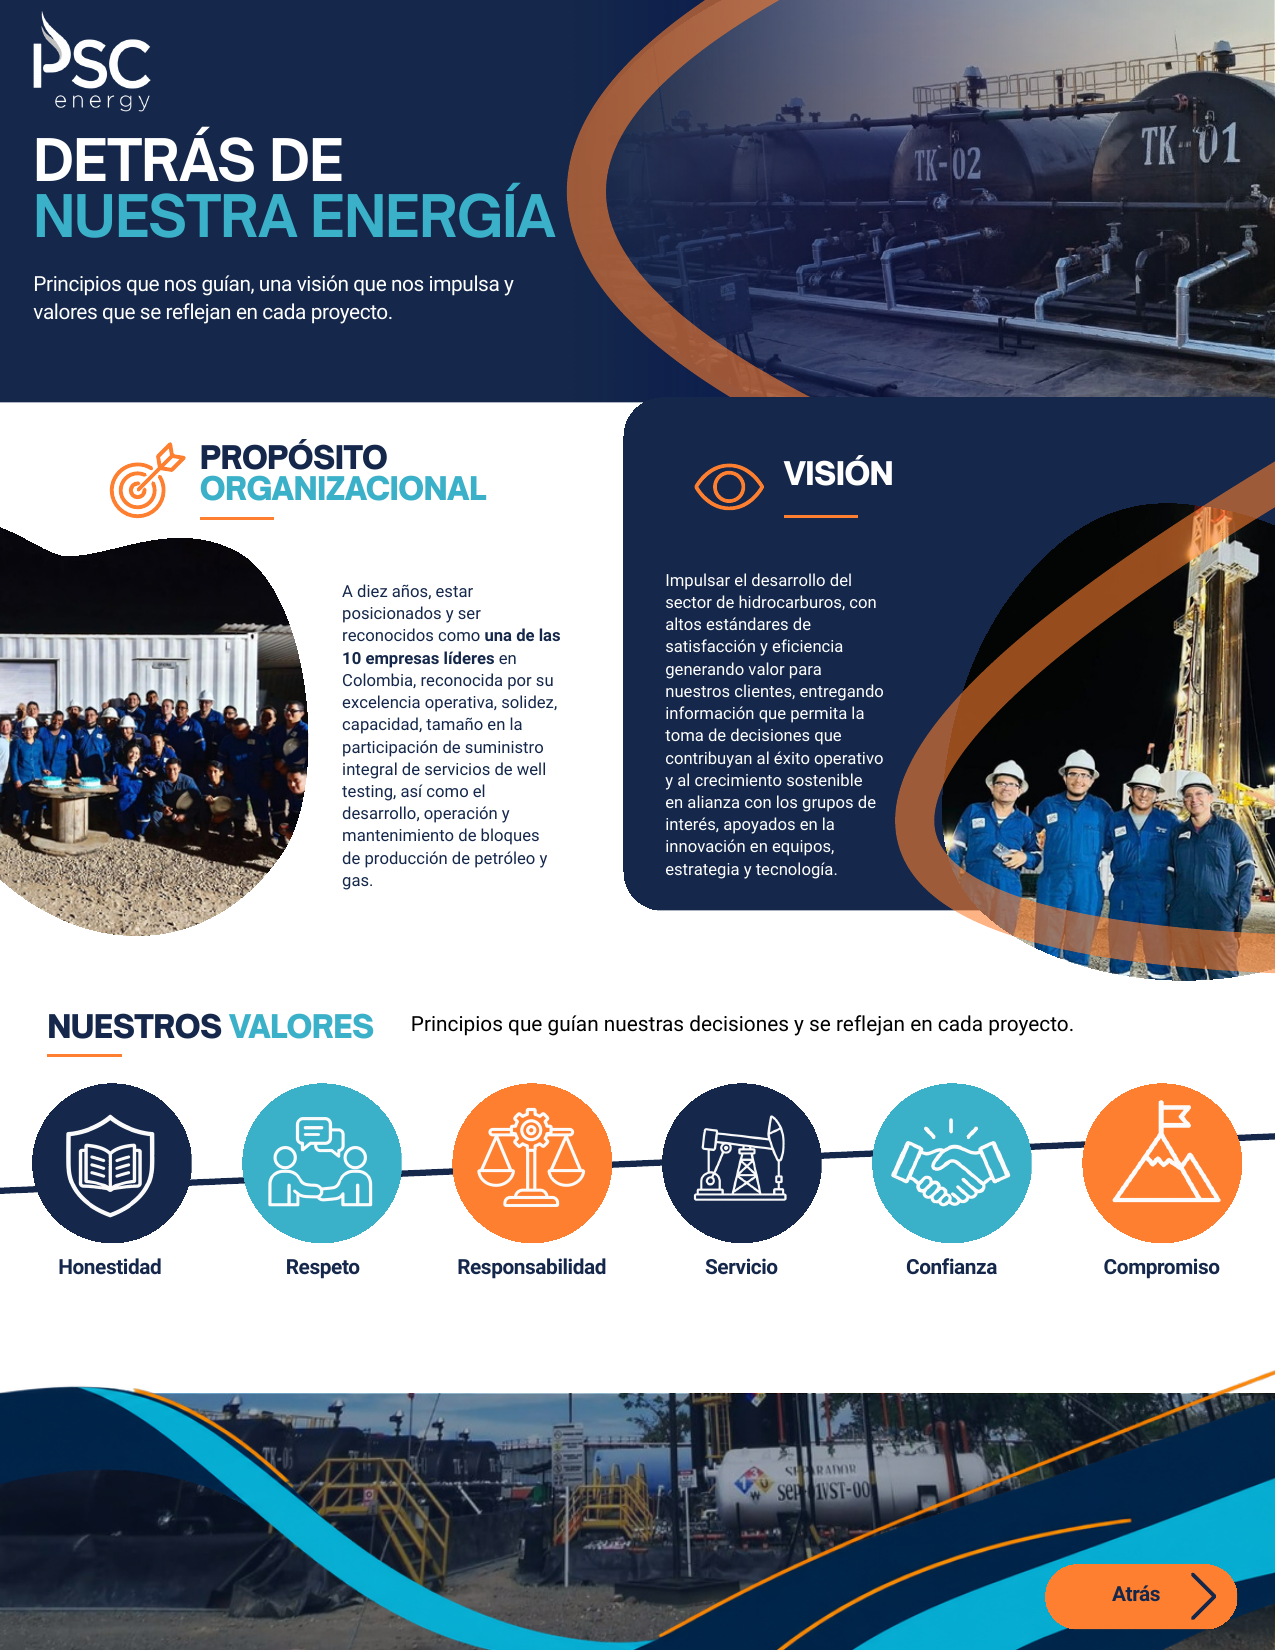
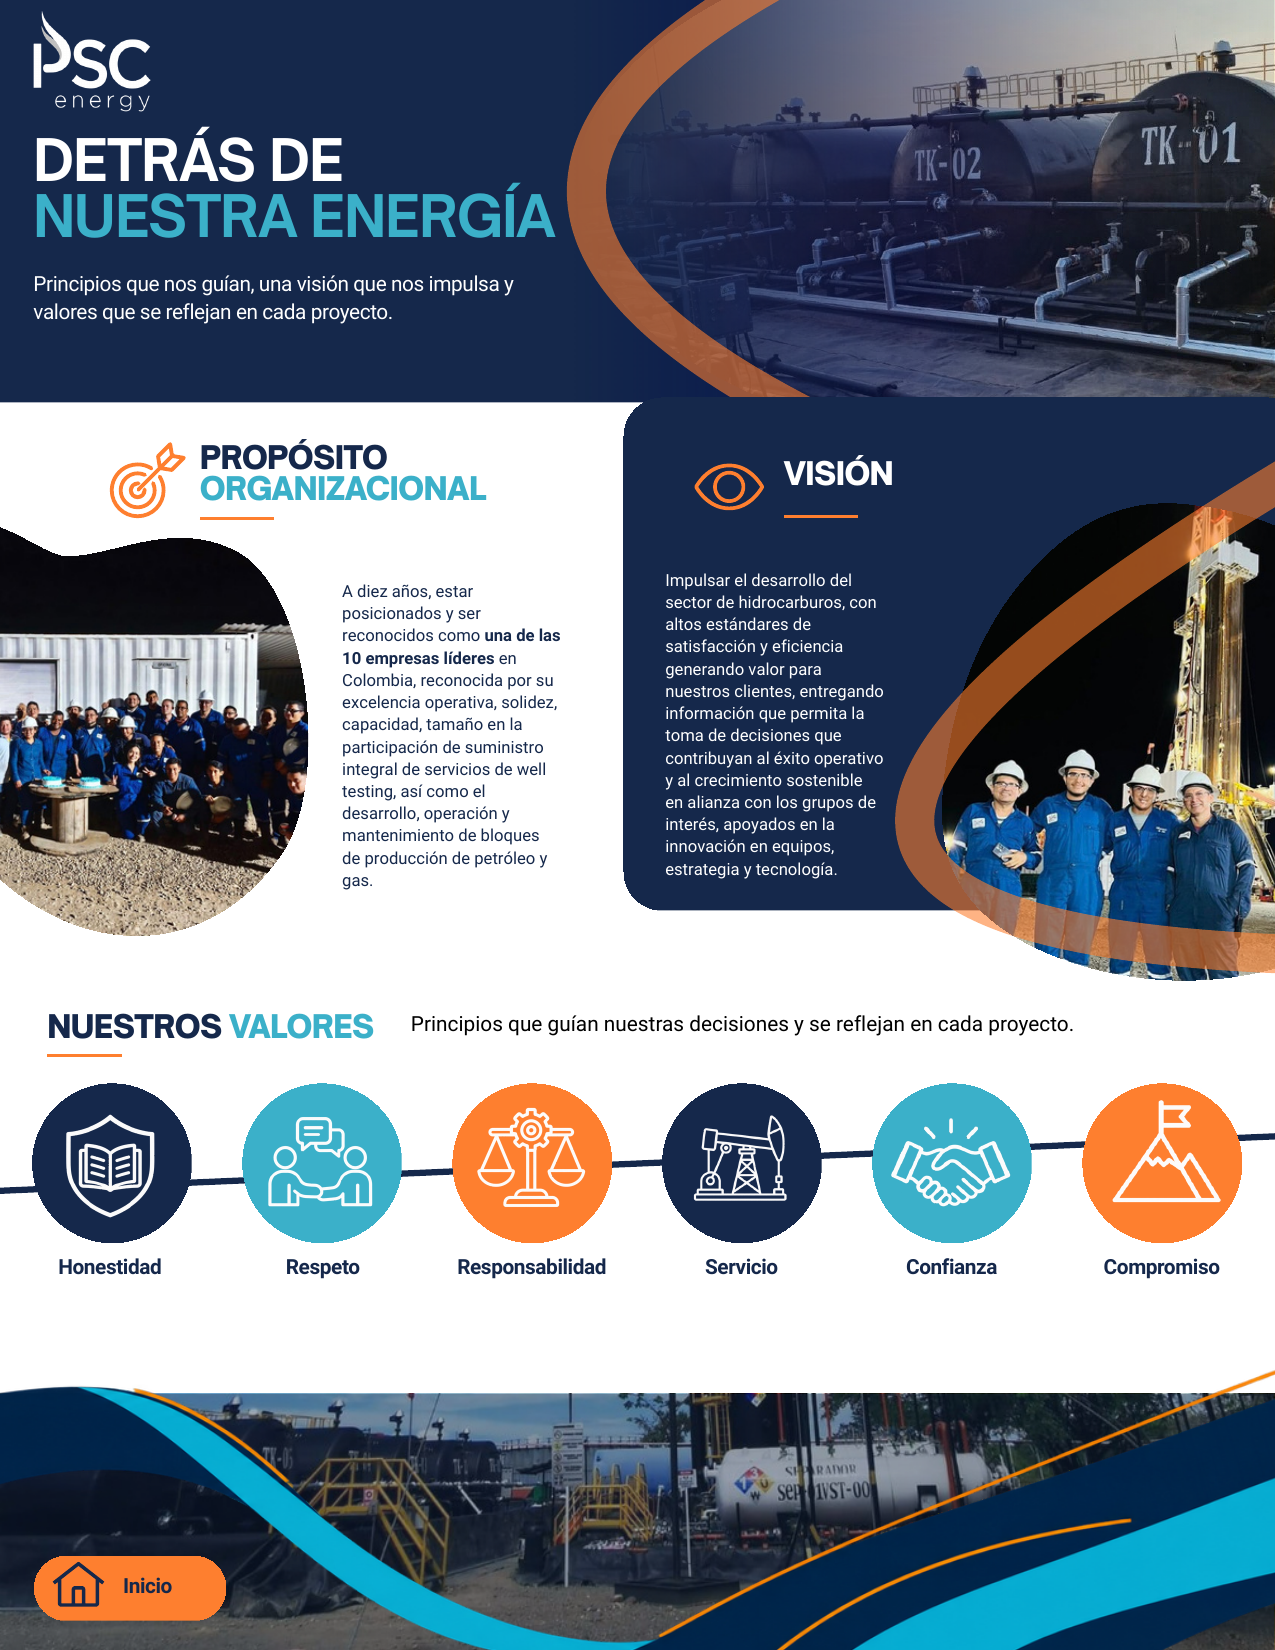
Actualización de navegación y botones del catálogo
Se agregan botones de Inicio y navegación entre servicios.

Changed region(s): [[0.7953, 0.9273, 0.9788, 0.9891], [0.0306, 0.9273, 0.1835, 0.9891]]

diff --git a/index.html b/index.html
@@ -15,22 +15,22 @@
 /* Home */
 #values{left:75%;top:27.3%;width:23%;height:7%}
 .card{top:42.3%;width:20.8%;height:13.7%}.r2{top:57.0%}.c1{left:6.1%}.c2{left:28.6%}.c3{left:51.1%}.c4{left:73.4%}
-.back{left:81.5%;top:94.0%;width:15.5%;height:4.5%}
+.homebtn{left:2.0%;top:94.0%;width:17.5%;height:4.7%}.nextbtn{left:73.0%;top:94.0%;width:24.5%;height:4.7%}
 #status{position:fixed;z-index:20;left:50%;bottom:max(8px,env(safe-area-inset-bottom));transform:translateX(-50%);padding:6px 10px;border-radius:999px;background:rgba(0,0,0,.42);color:#fff;font-size:11px;opacity:0;pointer-events:none;transition:.2s}#status.show{opacity:1}
 </style>
 </head>
 <body>
 <main id="app" aria-label="Catálogo interactivo PSC Energy 2026">
-  <section class="screen active" data-page="1"><div class="page"><img src="assets/page-01.png?v=3" alt="Catálogo PSC Energy 2026"><button id="values" class="hotspot" data-go="2" aria-label="Conocer propósito, visión y valores"></button><button class="hotspot card c1" data-go="3" aria-label="Well Testing"></button><button class="hotspot card c2" data-go="4" aria-label="Tratamiento de gas"></button><button class="hotspot card c3" data-go="5" aria-label="Operación y mantenimiento"></button><button class="hotspot card c4" data-go="6" aria-label="Medición de hidrocarburos"></button><button class="hotspot card r2 c1" data-go="7" aria-label="Construcción de facilidades"></button><button class="hotspot card r2 c2" data-go="8" aria-label="Renta de equipos"></button><button class="hotspot card r2 c3" data-go="9" aria-label="Montaje y calibración"></button><button class="hotspot card r2 c4" data-go="10" aria-label="Grupos electrógenos"></button></div></section>
-  <section class="screen" data-page="2"><div class="page"><img src="assets/page-02.png?v=3" alt="Página 2 del catálogo PSC Energy"><button class="hotspot back" data-go="1" aria-label="Volver al inicio"></button></div></section>
-  <section class="screen" data-page="3"><div class="page"><img src="assets/page-03.png?v=3" alt="Página 3 del catálogo PSC Energy"><button class="hotspot back" data-go="1" aria-label="Volver al inicio"></button></div></section>
-  <section class="screen" data-page="4"><div class="page"><img src="assets/page-04.png?v=3" alt="Página 4 del catálogo PSC Energy"><button class="hotspot back" data-go="1" aria-label="Volver al inicio"></button></div></section>
-  <section class="screen" data-page="5"><div class="page"><img src="assets/page-05.png?v=3" alt="Página 5 del catálogo PSC Energy"><button class="hotspot back" data-go="1" aria-label="Volver al inicio"></button></div></section>
-  <section class="screen" data-page="6"><div class="page"><img src="assets/page-06.png?v=3" alt="Página 6 del catálogo PSC Energy"><button class="hotspot back" data-go="1" aria-label="Volver al inicio"></button></div></section>
-  <section class="screen" data-page="7"><div class="page"><img src="assets/page-07.png?v=3" alt="Página 7 del catálogo PSC Energy"><button class="hotspot back" data-go="1" aria-label="Volver al inicio"></button></div></section>
-  <section class="screen" data-page="8"><div class="page"><img src="assets/page-08.png?v=3" alt="Página 8 del catálogo PSC Energy"><button class="hotspot back" data-go="1" aria-label="Volver al inicio"></button></div></section>
-  <section class="screen" data-page="9"><div class="page"><img src="assets/page-09.png?v=3" alt="Página 9 del catálogo PSC Energy"><button class="hotspot back" data-go="1" aria-label="Volver al inicio"></button></div></section>
-  <section class="screen" data-page="10"><div class="page"><img src="assets/page-10.png?v=3" alt="Página 10 del catálogo PSC Energy"><button class="hotspot back" data-go="1" aria-label="Volver al inicio"></button></div></section>
+  <section class="screen active" data-page="1"><div class="page"><img src="assets/page-01.png?v=4" alt="Catálogo PSC Energy 2026"><button id="values" class="hotspot" data-go="2" aria-label="Conocer propósito, visión y valores"></button><button class="hotspot card c1" data-go="3" aria-label="Well Testing"></button><button class="hotspot card c2" data-go="4" aria-label="Tratamiento de gas"></button><button class="hotspot card c3" data-go="5" aria-label="Operación y mantenimiento"></button><button class="hotspot card c4" data-go="6" aria-label="Medición de hidrocarburos"></button><button class="hotspot card r2 c1" data-go="7" aria-label="Construcción de facilidades"></button><button class="hotspot card r2 c2" data-go="8" aria-label="Renta de equipos"></button><button class="hotspot card r2 c3" data-go="9" aria-label="Montaje y calibración"></button><button class="hotspot card r2 c4" data-go="10" aria-label="Grupos electrógenos"></button></div></section>
+  <section class="screen" data-page="2"><div class="page"><img src="assets/page-02.png?v=4" alt="Página 2 del catálogo PSC Energy"><button class="hotspot homebtn" data-go="1" aria-label="Volver al inicio"></button></div></section>
+  <section class="screen" data-page="3"><div class="page"><img src="assets/page-03.png?v=4" alt="Página 3 del catálogo PSC Energy"><button class="hotspot homebtn" data-go="1" aria-label="Volver al inicio"></button><button class="hotspot nextbtn" data-go="4" aria-label="Ir a Tratamiento de gas"></button></div></section>
+  <section class="screen" data-page="4"><div class="page"><img src="assets/page-04.png?v=4" alt="Página 4 del catálogo PSC Energy"><button class="hotspot homebtn" data-go="1" aria-label="Volver al inicio"></button><button class="hotspot nextbtn" data-go="5" aria-label="Ir a Operación y mantenimiento"></button></div></section>
+  <section class="screen" data-page="5"><div class="page"><img src="assets/page-05.png?v=4" alt="Página 5 del catálogo PSC Energy"><button class="hotspot homebtn" data-go="1" aria-label="Volver al inicio"></button><button class="hotspot nextbtn" data-go="6" aria-label="Ir a Medición de hidrocarburos"></button></div></section>
+  <section class="screen" data-page="6"><div class="page"><img src="assets/page-06.png?v=4" alt="Página 6 del catálogo PSC Energy"><button class="hotspot homebtn" data-go="1" aria-label="Volver al inicio"></button><button class="hotspot nextbtn" data-go="7" aria-label="Ir a Construcción de facilidades"></button></div></section>
+  <section class="screen" data-page="7"><div class="page"><img src="assets/page-07.png?v=4" alt="Página 7 del catálogo PSC Energy"><button class="hotspot homebtn" data-go="1" aria-label="Volver al inicio"></button><button class="hotspot nextbtn" data-go="8" aria-label="Ir a Renta de equipos"></button></div></section>
+  <section class="screen" data-page="8"><div class="page"><img src="assets/page-08.png?v=4" alt="Página 8 del catálogo PSC Energy"><button class="hotspot homebtn" data-go="1" aria-label="Volver al inicio"></button><button class="hotspot nextbtn" data-go="9" aria-label="Ir a Montaje y calibración"></button></div></section>
+  <section class="screen" data-page="9"><div class="page"><img src="assets/page-09.png?v=4" alt="Página 9 del catálogo PSC Energy"><button class="hotspot homebtn" data-go="1" aria-label="Volver al inicio"></button><button class="hotspot nextbtn" data-go="10" aria-label="Ir a Grupos electrógenos"></button></div></section>
+  <section class="screen" data-page="10"><div class="page"><img src="assets/page-10.png?v=4" alt="Página 10 del catálogo PSC Energy"><button class="hotspot homebtn" data-go="1" aria-label="Volver al inicio"></button></div></section>
 </main><div id="status">Navegación solo por botones</div>
 <script>
 const screens=[...document.querySelectorAll('.screen')];

diff --git a/service-worker.js b/service-worker.js
@@ -1,7 +1,7 @@
-const CACHE = 'psc-energy-catalogo-v3';
-const ASSETS = ["./", "./index.html", "./manifest.json", "./assets/page-01.png?v=3", "./assets/page-02.png?v=3", "./assets/page-03.png?v=3", "./assets/page-04.png?v=3", "./assets/page-05.png?v=3", "./assets/page-06.png?v=3", "./assets/page-07.png?v=3", "./assets/page-08.png?v=3", "./assets/page-09.png?v=3", "./assets/page-10.png?v=3", "./assets/icon-192.png", "./assets/icon-512.png"];
+const CACHE = 'psc-energy-catalogo-v4';
+const ASSETS = ["./", "./index.html", "./manifest.json", "./assets/page-01.png?v=4", "./assets/page-02.png?v=4", "./assets/page-03.png?v=4", "./assets/page-04.png?v=4", "./assets/page-05.png?v=4", "./assets/page-06.png?v=4", "./assets/page-07.png?v=4", "./assets/page-08.png?v=4", "./assets/page-09.png?v=4", "./assets/page-10.png?v=4", "./assets/icon-192.png", "./assets/icon-512.png"];
 self.addEventListener('install',e=>e.waitUntil(caches.open(CACHE).then(c=>c.addAll(ASSETS)).then(()=>self.skipWaiting())));
 self.addEventListener('activate',e=>e.waitUntil(caches.keys().then(keys=>Promise.all(keys.filter(k=>k!==CACHE).map(k=>caches.delete(k)))).then(()=>self.clients.claim())));
 self.addEventListener('fetch',e=>{if(e.request.method!=='GET')return;e.respondWith(caches.match(e.request).then(cached=>cached||fetch(e.request).then(resp=>{const copy=resp.clone();caches.open(CACHE).then(c=>c.put(e.request,copy));return resp}).catch(()=>caches.match('./index.html'))))});
 
-// Versión 3: actualización del brochure final - 2026-09-30.
+// Versión 4: botones Inicio/Siguiente y textos actualizados - 2026-09-30.
